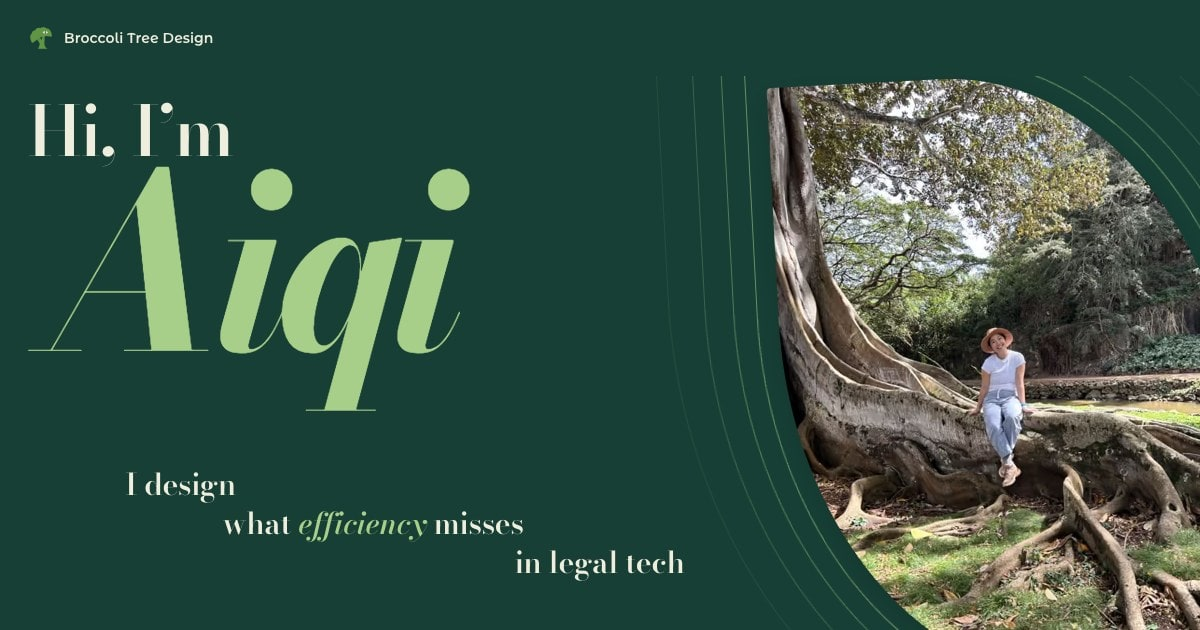
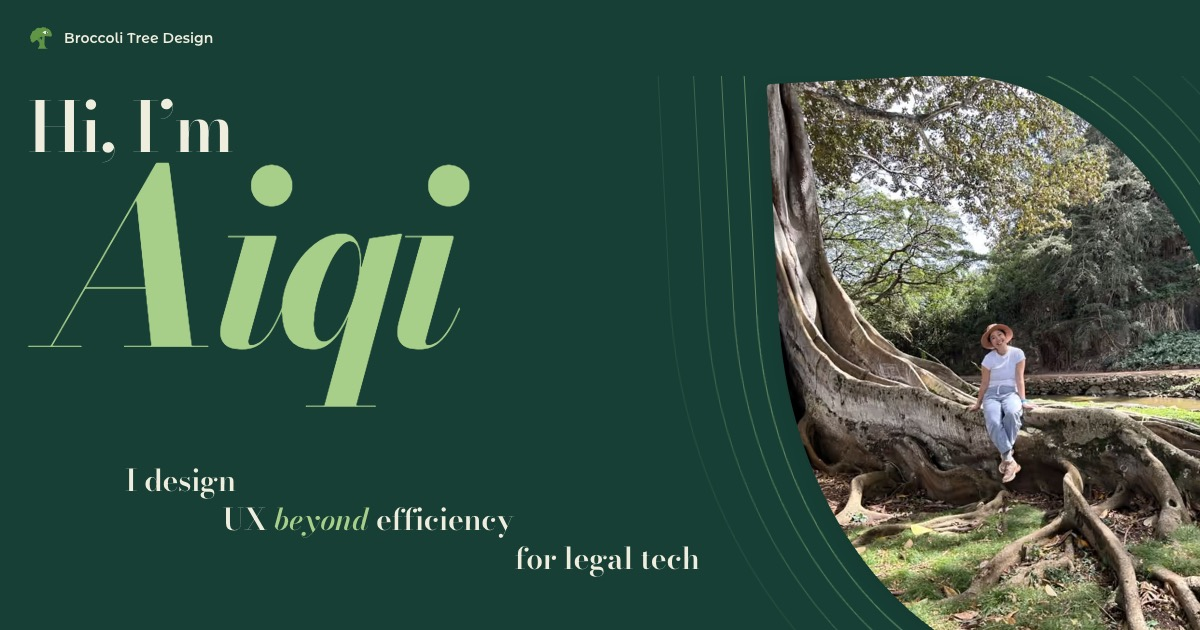
Change the slogan to "I design UX beyond efficiency for legal tech"
Updates the hero, site description, structured data, share-image alt
text, and re-captures both share images at 1200×630 from the hero with
"beyond" in the green italic accent.

diff --git a/app/page.tsx b/app/page.tsx
@@ -34,7 +34,7 @@ const JSON_LD = {
       name: "Aiqi Li",
       jobTitle: "UX Designer",
       description:
-        "Paralegal-turned UX designer who designs what efficiency misses in legal tech, drawing on first-hand experience inside legal systems in the U.S. and China.",
+        "Paralegal-turned UX designer who designs UX beyond efficiency for legal tech, drawing on first-hand experience inside legal systems in the U.S. and China.",
       url: SITE_URL,
       image: `${SITE_URL}/profile.jpg`,
       sameAs: [LINKEDIN_URL],
@@ -218,9 +218,9 @@ export default function Home() {
             <p className="text-sub hero-slogan">
               <span className="hero-s1">I design</span>{" "}
               <span className="hero-s2">
-                what <em>efficiency</em> misses
+                UX <em>beyond</em> efficiency
               </span>{" "}
-              <span className="hero-s3">in legal tech</span>
+              <span className="hero-s3">for legal tech</span>
             </p>
           </div>
         </section>

diff --git a/app/site.ts b/app/site.ts
@@ -4,6 +4,6 @@ export const SITE_NAME = "Broccoli Tree Design";
 export const SITE_TITLE =
   "Aiqi Li | UX Designer for Legal Tech | Broccoli Tree Design";
 export const SITE_DESCRIPTION =
-  "Aiqi Li designs what efficiency misses in legal tech. Paralegal-turned UX designer for early-stage teams: 0→1 product design, redesign, research, branding and design system.";
+  "Aiqi Li designs UX beyond efficiency for legal tech. Paralegal-turned UX designer for early-stage teams: 0→1 product design, redesign, research, branding and design system.";
 export const LINKEDIN_URL = "https://www.linkedin.com/in/liaiqi/";
 export const GITHUB_URL = "https://github.com/broccoli-tree-design";
